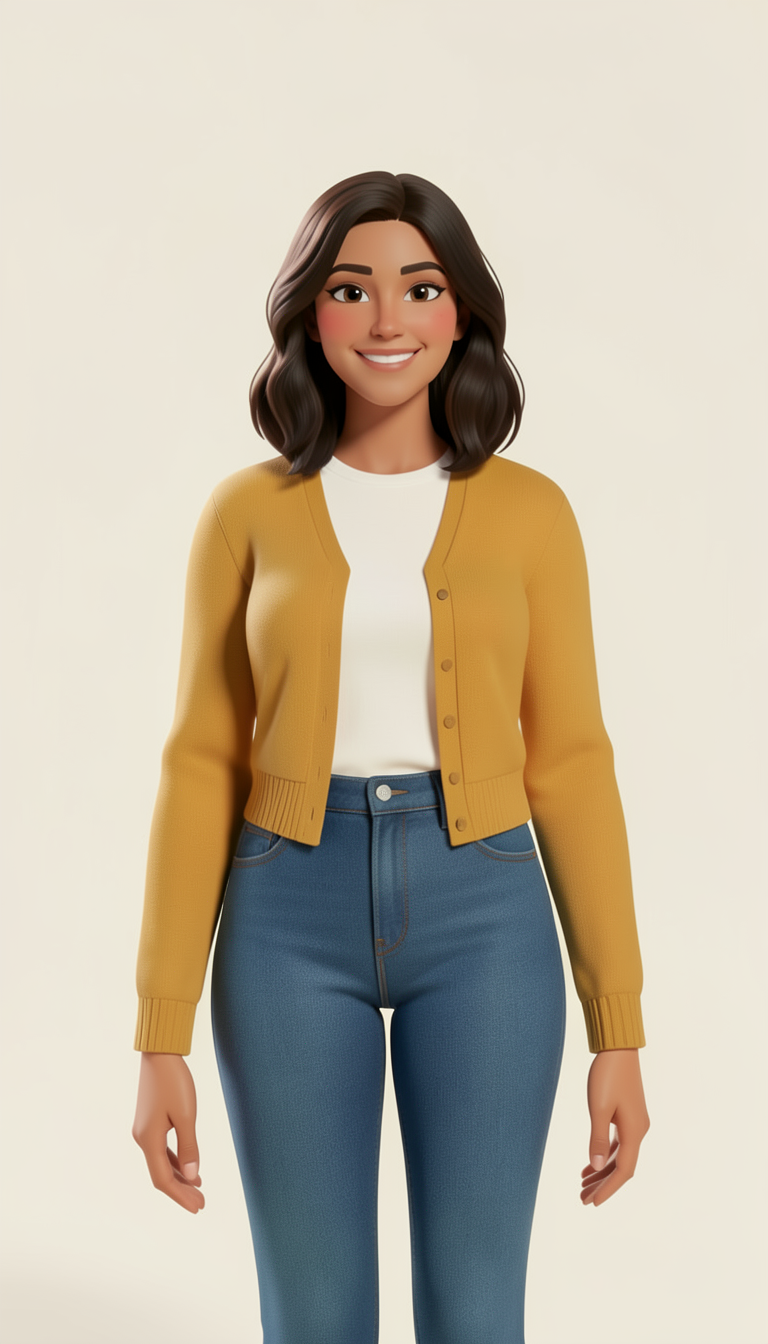
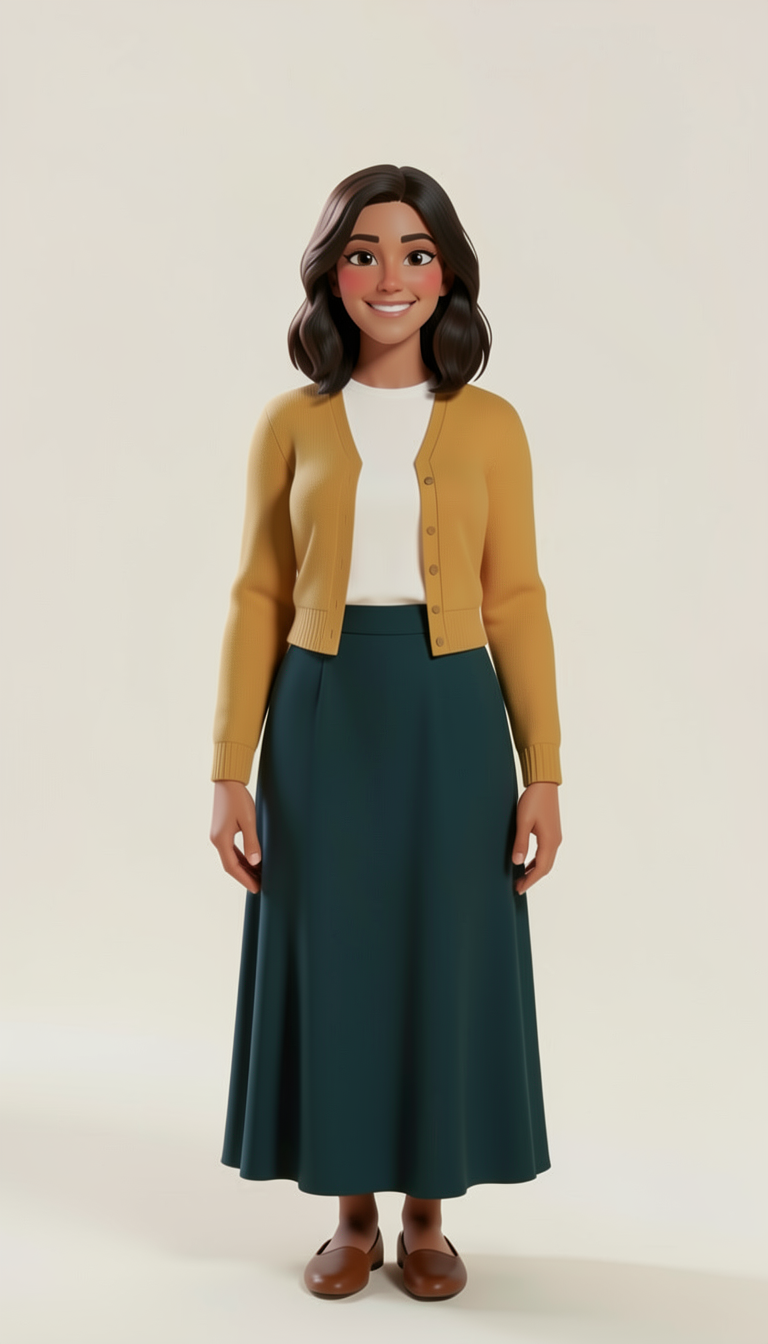
Image checklist (eyes, arms, clothing, complete objects), modesty clause only for scenes with people, stills + 0.3 s cross-fades for 3D videos, gentler onset trim + 0.6 s after hello; Day 9/10 rebuilt with new opener, desks, friends, thumbnail

diff --git a/tools/assemble.py b/tools/assemble.py
@@ -208,9 +208,17 @@ def main():
     # 1. one video segment per scene: image + slow zoom + badge + card
     concat, contact = [], []
     prompts = img_dir / "prompts.json"
-    opts = {p["s"]: p for p in json.loads(prompts.read_text(encoding="utf-8")) if "s" in p} if prompts.exists() else {}
+    entries = json.loads(prompts.read_text(encoding="utf-8")) if prompts.exists() else []
+    opts = {p["s"]: p for p in entries if "s" in p}
+    # 3D videos (Day 6+, owner 2026-10-05): only the opener moves; every other scene is a clear still picture and
+    # consecutive scenes cross-fade softly (XF s). Older flat videos keep the slow zoom and hard cuts.
+    style3d = any(p.get("style") == "3d" for p in entries)
+    XF = 0.3 if style3d else 0.0
+    xf_frames = round(XF * FPS)
+    n_scenes = len(tl["scenes"])
     for i, scene in enumerate(tl["scenes"], 1):
         frames = round(scene["end"] * FPS) - round(scene["start"] * FPS)
+        extra = xf_frames if i < n_scenes else 0   # each segment runs XF longer: the next one fades in over it
         o = opts.get(i, {})
         image = img_dir / f"s{i:02d}.png"
         if "same" in o:   # "same" links win over any leftover file from an older numbering
@@ -240,12 +248,14 @@ def main():
                 if o.get("shift"):   # match the shifted opener exactly, so the hand-over is seamless
                     image = shifted(image, o["shift"], seg_dir / f"s{i:02d}-lastframe-shifted.png")
             if image.exists() and rest > FPS // 2:
+                rest_chain = (f"[1:v]{fit}[b]" if style3d else
+                              f"[1:v]scale={W * 2}:{H * 2}:force_original_aspect_ratio=increase,crop={W * 2}:{H * 2},"
+                              f"zoompan=z='1+0.05*on/{rest}':x='iw/2-(iw/zoom/2)':y='ih/2-(ih/zoom/2)':d={rest}:s={W}x{H}:fps={FPS},"
+                              f"setsar=1[b]")
                 run(["ffmpeg", "-v", "error", "-y", "-i", str(clip), "-loop", "1", "-i", str(image), "-filter_complex",
                      f"{clip_fit('0:v', o.get('shift'), 'c0')};[c0]"
                      f"tpad=stop_mode=clone:stop_duration={hold}[a];"
-                     f"[1:v]scale={W * 2}:{H * 2}:force_original_aspect_ratio=increase,crop={W * 2}:{H * 2},"
-                     f"zoompan=z='1+0.05*on/{rest}':x='iw/2-(iw/zoom/2)':y='ih/2-(ih/zoom/2)':d={rest}:s={W}x{H}:fps={FPS},"
-                     f"setsar=1[b];[a][b]concat=n=2:v=1[v]", "-map", "[v]", "-frames:v", str(frames), "-c:v", "libx264",
+                     f"{rest_chain};[a][b]concat=n=2:v=1[v]", "-map", "[v]", "-frames:v", str(frames + extra), "-c:v", "libx264",
                      "-crf", "16", "-pix_fmt", "yuv420p", str(joined)])
                 clip = joined
         elif clip is not None and o.get("clip_mode") == "tail" and (LIBRARY / f"{o['clip']}-tail.mp4").exists():
@@ -260,11 +270,11 @@ def main():
             # library clip: "once" (default) = opener + 1-s hold (+ the scene picture); "loop" repeats it
             src = (["-stream_loop", "-1"] if o.get("clip_mode") == "loop" else []) + ["-i", str(clip)]
             chain = f"[0:v]{fit},tpad=stop_mode=clone:stop_duration=600[bg];[bg][1:v]overlay=0:40[b1]"
-        elif o.get("motion") in ("still", "fade"):
+        elif o.get("motion", "still" if style3d else "zoom") in ("still", "fade"):
             # still picture (no zoom); "fade" adds a slow fade in and out (for photo-only scenes)
             src = ["-loop", "1", "-i", str(image)]
             fade = (f",fade=t=in:st=0:d=0.5,fade=t=out:st={max(frames / FPS - 0.5, 0):.2f}:d=0.5"
-                    if o.get("motion") == "fade" else "")
+                    if o.get("motion") == "fade" and not style3d else "")   # 3D: the cross-fade does this
             chain = f"[0:v]{fit}{fade}[bg];[bg][1:v]overlay=0:40[b1]"
         else:
             src = ["-loop", "1", "-i", str(image)]
@@ -280,7 +290,7 @@ def main():
             last = "b2"
         seg = seg_dir / f"s{i:02d}.mp4"
         run(["ffmpeg", "-v", "error", "-y", *src, *overlays, "-filter_complex", chain,
-             "-map", f"[{last}]", "-frames:v", str(frames), "-c:v", "libx264", "-crf", "18", "-preset", "medium",
+             "-map", f"[{last}]", "-frames:v", str(frames + extra), "-c:v", "libx264", "-crf", "18", "-preset", "medium",
              "-pix_fmt", "yuv420p", "-r", str(FPS), str(seg)])
         concat.append(f"file '{seg.resolve()}'")
         print(f"  scene {i:02d}  {frames / FPS:5.1f}s  {scene['name']}")
@@ -294,8 +304,21 @@ def main():
                 u["used_in"].append(stem)
         idx_file.write_text(json.dumps(idx, indent=1, ensure_ascii=False) + "\n", encoding="utf-8")
     video_only = out_dir / "video-only.mp4"
-    run(["ffmpeg", "-v", "error", "-y", "-f", "concat", "-safe", "0", "-i", str(seg_dir / "list.txt"), "-c", "copy",
-         str(video_only)])
+    if XF:   # soft cross-fade into every scene, starting exactly at the scene's start (timing unchanged)
+        segs = [ln.split("'")[1] for ln in concat]
+        ins = sum((["-i", s_] for s_ in segs), [])
+        chain = ";".join(f"[{k}:v]settb=AVTB,fps={FPS},setsar=1[i{k}]" for k in range(len(segs)))
+        prev = "i0"
+        for k in range(1, len(segs)):
+            off = round(tl["scenes"][k]["start"] * FPS) / FPS
+            chain += f";[{prev}][i{k}]xfade=transition=fade:duration={XF}:offset={off:.4f}[x{k}]"
+            prev = f"x{k}"
+        total = round(tl["scenes"][-1]["end"] * FPS)
+        run(["ffmpeg", "-v", "error", "-y", *ins, "-filter_complex", chain, "-map", f"[{prev}]", "-frames:v", str(total),
+             "-c:v", "libx264", "-crf", "18", "-preset", "medium", "-pix_fmt", "yuv420p", "-r", str(FPS), str(video_only)])
+    else:
+        run(["ffmpeg", "-v", "error", "-y", "-f", "concat", "-safe", "0", "-i", str(seg_dir / "list.txt"), "-c", "copy",
+             str(video_only)])
 
     # 2. captions: English narration + filmed-clip captions (Arabic lesson lines are on the cards)
     def srt_time(x):

diff --git a/tools/make_audio.py b/tools/make_audio.py
@@ -45,6 +45,7 @@ VOICE_VERSIONS = {"narrator": "owner-en-5", "teacher": "owner-ar-4", "teacher-sl
 SPEAKERS = ("narrator", "teacher", "teacher-slow", "sami", "lina", "narrator-kokoro")
 
 MAX_PAUSE = 2.0     # seconds — longer waits bore the viewer (easy words: 1.5 s)
+AFTER_FILMED = 0.6   # s of air after a filmed clip (hello) before the next line
 GAP = 0.35          # seconds of silence between two clips when the script has no explicit pause
 SAMPLE_RATE = 24000
 CLIP_LUFS = -18.0   # per-clip loudness (the final video mix is brought to -14 LUFS)
@@ -117,7 +118,9 @@ def level(src: pathlib.Path, dst: pathlib.Path, owner=None):
     """Trim silence at both ends, bring the clip to CLIP_LUFS, keep peaks below -1.5 dB.
     owner=True: the owner's recorded voice — clarity EQ and +2 dB (see OWNER_CLARITY)."""
     trimmed = dst.with_suffix(".trim.wav")
-    trim = ("silenceremove=start_periods=1:start_threshold=-45dB:start_silence=0.05,"
+    # gentle onset trim (owner, 2026-10-05: "I'm your teacher" sounded cut after the hello clip): -55 dB threshold and
+    # 0.12 s kept before the first sound, so soft starts ("I…", "and…") are never clipped
+    trim = ("silenceremove=start_periods=1:start_threshold=-55dB:start_silence=0.12,"
             "areverse,silenceremove=start_periods=1:start_threshold=-45dB:start_silence=0.1,areverse")
     run(["ffmpeg", "-v", "error", "-y", "-i", str(src), "-af", trim, "-ac", "1", "-ar", str(SAMPLE_RATE), str(trimmed)])
     if owner is not None:   # a recorded line (owner=True/False): denoise + gate; the owner's also gets the EQ
@@ -213,7 +216,7 @@ def render(script: pathlib.Path, out_root: pathlib.Path, takes: int, redo=(), al
         rec = recorded.get((speaker, text))
         if rec:
             digest = hashlib.sha1((ROOT / rec["file"]).read_bytes()).hexdigest()
-            tag = "rec7" if speaker in OWNER_SPEAKERS else "reck2"   # rec4/reck2 = denoise + gate (+ owner EQ)
+            tag = "rec8" if speaker in OWNER_SPEAKERS else "reck3"   # rec4/reck2 = denoise + gate (+ owner EQ)
             return cache / f"{tag}-{digest}.wav"
         return cache / (hashlib.sha1(f"{VOICE_VERSIONS[speaker]}|{speaker}|{text}".encode()).hexdigest() + ".wav")
 
@@ -256,7 +259,7 @@ def render(script: pathlib.Path, out_root: pathlib.Path, takes: int, redo=(), al
                 gap = pending_gap or GAP
                 segments.append(("silence", gap))
                 t += gap
-            pending_gap = 0.0
+            pending_gap = AFTER_FILMED   # a breath after the owner's filmed clip before the narrator speaks
             length = duration(CLIPS_DIR / f"{name}.mp4")
             segments.append(("silence", length))
             timeline.append(f"| {timestamp(t)} | 🎥 filmed clip `{name}` ({length:.1f}s) {caption} |")

diff --git a/tools/images/generate.py b/tools/images/generate.py
@@ -21,9 +21,9 @@ STYLE = ("flat vector illustration, warm pastel palette (sand, terracotta, teal,
 STYLE_3D = ("3D animated movie style, soft cinematic lighting, expressive stylized characters, Pixar-like but original, "
             "warm palette (sand, terracotta, teal, cream), rich depth, vertical 9:16 composition, the scene fills the "
             "whole frame edge to edge, no text, no letters, no signs, no watermark, "
-            "every woman dressed modestly in loose-fitting clothes: long loose skirt or wide loose trousers to the ankle, "
+            "every woman dressed modestly in loose-fitting clothes: long loose skirt, wide trousers or loose straight-leg jeans, "
             "loose tops with high necklines, sleeves at least to the elbow, nothing tight, no bare legs, no bare shoulders")
-# owner, 2026-10-05: no exposed body parts, no tight jeans or tight tops on women (Arab audience); hijab optional
+# owner, 2026-10-05: no exposed body parts, nothing tight on women (loose jeans are fine — not too conservative); hijab optional
 STYLES = {"flat": STYLE, "3d": STYLE_3D}
 
 
@@ -61,7 +61,10 @@ def main():
     a = ap.parse_args()
 
     wf = json.load(open(a.workflow))
-    wf["4"]["inputs"]["text"] = a.prompt if a.no_style else f"{a.prompt.rstrip('. ')}. {STYLES[a.style]}"
+    style = STYLES[a.style]
+    if "no people" in a.prompt.lower():   # the modesty clause made the model ADD a woman to empty scenes (2026-10-05)
+        style = style.split(", every woman dressed")[0]
+    wf["4"]["inputs"]["text"] = a.prompt if a.no_style else f"{a.prompt.rstrip('. ')}. {style}"
     seed = a.seed if a.seed is not None else random.randint(0, 2**31)
     for nid, n in wf.items():
         i = n["inputs"]

diff --git a/.claude/skills/produce-day/SKILL.md b/.claude/skills/produce-day/SKILL.md
@@ -58,12 +58,31 @@ Every item here cost a rebuild once. Apply them while writing the script and bui
 - Thumbnails: `thumbnail.py` refuses → ▶ … _ (missing glyphs) — write "MAN OR WOMAN?", not "MAN → WOMAN".
 - Scene-1 card: one line, comma-separated, one style. Pauses fit the difficulty.
 
+**Image check — every picture, thumbnail and opener frame, at full size, BEFORE it's used (owner, 2026-10-05):**
+1. **Eyes:** both eyes look the same direction, same size, natural; no squint, drift or "dead" stare. In openers, check
+   the first, middle and last frame.
+2. **Arms and hands:** count arms per person (exactly two, one on each side, attached at the shoulders); count hands
+   and fingers; no half arms, no extra or floating hands, no arm growing from the wrong side.
+3. **Clothing:** modest per the rule below; sleeves, hems and collars continuous (no clothing melting into skin).
+4. **Objects complete:** spiral wires, cup handles, chair legs, clock faces, books — whole and believable (prefer
+   objects without fiddly details: a hardcover notebook instead of a spiral one).
+5. **No text, letters or fake writing** on boards, signs, screens or book covers.
+6. **Two-person scenes:** both characters correct (refs for both), no touching between unrelated men and women.
+Reject the take if any item fails — a clear still beats an odd one.
+
 **Modest, culturally respectful people (owner, 2026-10-05) — check every picture and opener:** no exposed body parts on
-women (no bare legs or shoulders, no slit dresses), no tight jeans / tight tops / visible chest shape — loose long
-skirts or wide trousers, loose tops with high necklines, sleeves at least to the elbow. Hijab is optional. Men and
+women (no bare legs or shoulders, no slit dresses), nothing tight (tight jeans/tops, visible chest shape) — loose long skirts, wide
+trousers or loose jeans (not too conservative), loose tops with high necklines, sleeves at least to the elbow. Hijab is optional. Men and
 women who aren't family don't touch (no hand-holding, no arms around each other). Lina's standard outfit is now the
 loose mustard cardigan + white high-neck blouse + long dark-teal skirt (`assets/characters/lina-3d.png`). The 3D
 style suffix in generate.py asks for this automatically, but **look** at every take: a slit or tight jeans = reject.
+
+**Motion (owner, 2026-10-05):** only the scene-1 opener moves; it must have a clear, curiosity-triggering action (a
+real gesture or event — standing still and smiling is NOT a scroll-stopper). All other scenes are clear still pictures
+with a soft 0.3 s cross-fade between scenes (assemble.py default for 3D videos). Animating every scene would cost
+~8 min of GPU per scene (~2–3 h per video) and odd motion is worse than a clean still.
+**Hello-clip join:** the narrator line after the filmed hello starts 0.6 s after it ends (`AFTER_FILMED`) and the
+onset trim keeps 0.12 s before the first sound — listen to that join in the approval preview; nothing may sound cut.
 
 **Openers:** one simple, normal action (no exaggeration), arms back down, 1-s hold, then the scene picture;
 one person per opener; the owner approves each one before use.

diff --git a/.claude/skills/animation-library/SKILL.md b/.claude/skills/animation-library/SKILL.md
@@ -98,9 +98,21 @@ Make 3–5 new openers (different entrances per character: peek, look-up, turn-a
 
 ## Characters and variety
 
+**Image check — every picture, thumbnail and opener frame, at full size, BEFORE it's used (owner, 2026-10-05):**
+1. **Eyes:** both eyes look the same direction, same size, natural; no squint, drift or "dead" stare. In openers, check
+   the first, middle and last frame.
+2. **Arms and hands:** count arms per person (exactly two, one on each side, attached at the shoulders); count hands
+   and fingers; no half arms, no extra or floating hands, no arm growing from the wrong side.
+3. **Clothing:** modest per the rule below; sleeves, hems and collars continuous (no clothing melting into skin).
+4. **Objects complete:** spiral wires, cup handles, chair legs, clock faces, books — whole and believable (prefer
+   objects without fiddly details: a hardcover notebook instead of a spiral one).
+5. **No text, letters or fake writing** on boards, signs, screens or book covers.
+6. **Two-person scenes:** both characters correct (refs for both), no touching between unrelated men and women.
+Reject the take if any item fails — a clear still beats an odd one.
+
 **Modest, culturally respectful people (owner, 2026-10-05) — check every picture and opener:** no exposed body parts on
-women (no bare legs or shoulders, no slit dresses), no tight jeans / tight tops / visible chest shape — loose long
-skirts or wide trousers, loose tops with high necklines, sleeves at least to the elbow. Hijab is optional. Men and
+women (no bare legs or shoulders, no slit dresses), nothing tight (tight jeans/tops, visible chest shape) — loose long skirts, wide
+trousers or loose jeans (not too conservative), loose tops with high necklines, sleeves at least to the elbow. Hijab is optional. Men and
 women who aren't family don't touch (no hand-holding, no arms around each other). Lina's standard outfit is now the
 loose mustard cardigan + white high-neck blouse + long dark-teal skirt (`assets/characters/lina-3d.png`). The 3D
 style suffix in generate.py asks for this automatically, but **look** at every take: a slit or tight jeans = reject.

diff --git a/videos/009-upload.md b/videos/009-upload.md
@@ -80,8 +80,8 @@ Day 9 ✅ — Make it feminine! Write the woman's version of صَدِيقْ (fri
 
 ## Quality check (Claude)
 
-- Opener: Lina closes her book in the classroom (approved) → 1-s hold → slow zoom.
+- Opener: Lina raises one finger, "just one thing!" (modest outfit) → 1-s hold. Still pictures with soft cross-fades.
 - Audio approved by you: voices level, narrator checked for rushing, gaps and accent drift; "soft ah" wording; noise-cleaned recordings.
 - 9 new 3D images (classroom, students, teachers, friends) + 2 reused; faces clear of every card.
 - Title without Arabic script (ة is on the thumbnail and in the description instead).
-- Finished video: 2:18 · −14.0 LUFS · peak −1.8 dB · transcript in order, no overlaps.
+- Finished video: 2:20 · −14.1 LUFS · peak −1.9 dB · transcript in order, no overlaps.

diff --git a/videos/010-upload.md b/videos/010-upload.md
@@ -88,4 +88,4 @@ Day 10 ✅ — What's your lucky number? Write it in Arabic below 👇 (sab'a? '
 - Audio approved by you: voices level, narrator checked, noise-cleaned recordings; coffee for a group of friends (not for Sami).
 - Cup scenes are composited, so every number shows exactly the right count; the table sits mid-frame so cards,
   subtitles and the YOUR TURN label never cover the cups.
-- Finished video: 1:39 · −14.1 LUFS · peak −1.7 dB · transcript in order, no overlaps.
+- Finished video: 1:41 · −14.0 LUFS · peak −1.5 dB · transcript in order, no overlaps.
